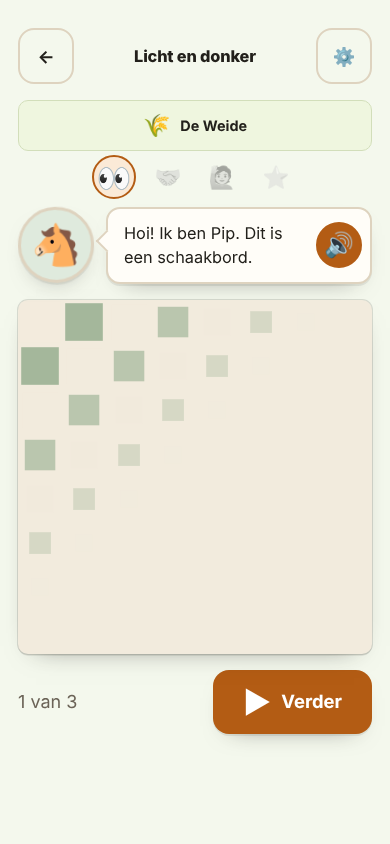
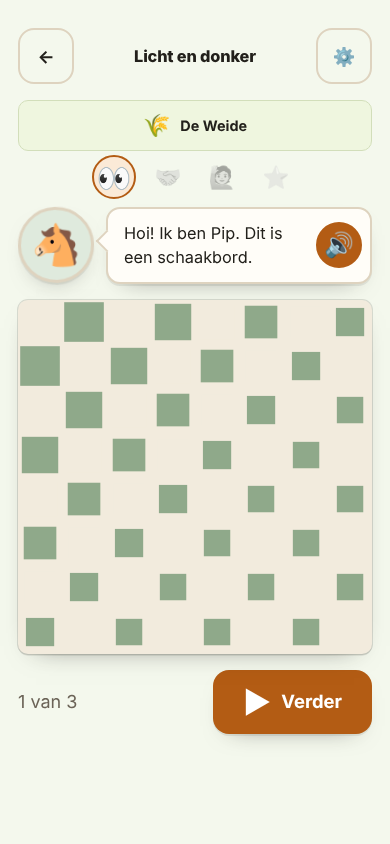
Golf schaalt alleen, vonk na vinkje; doorloop bewaakt beweging aan en uit
Na 29e review: geen half leeg bord meer tijdens de golf, vonk botst niet met
het vinkje, en de doorloop bewijst nu ook dat golf en vonk er mét beweging zijn.

diff --git a/src/board/Board.module.css b/src/board/Board.module.css
@@ -173,9 +173,10 @@
 .goedVeld { animation: veldPop 380ms cubic-bezier(0.3, 1.6, 0.5, 1) 1; z-index: 2; }
 .goedVeld .merkGoed { animation: merkIn 320ms ease-out 1; }
 .vonk {
-  position: absolute; left: 50%; top: 40%; font-size: 1.1em; line-height: 1;
+  /* Vanuit linksonder en pas ná het vinkje, anders schoof hij er dwars doorheen. */
+  position: absolute; left: 30%; top: 55%; font-size: 1.1em; line-height: 1;
   pointer-events: none; z-index: 4; opacity: 0;
-  animation: vonkOp 900ms ease-out 1;
+  animation: vonkOp 800ms ease-out 250ms 1 both;
 }
 @keyframes veldPop { 0% { transform: scale(1); } 45% { transform: scale(1.12); } 100% { transform: scale(1); } }
 @keyframes merkIn { from { transform: scale(0.2); opacity: 0; } to { transform: none; opacity: 1; } }
@@ -186,8 +187,11 @@
 }
 
 /* De kennismaking: de velden rollen in een golf van linksboven naar rechtsonder in. */
-.golf .square { animation: golfIn 420ms ease-out both; animation-delay: calc(var(--golf, 0) * 45ms); }
-@keyframes golfIn { from { transform: scale(0.3); opacity: 0; } to { transform: none; opacity: 1; } }
+/* Alleen schalen, nooit doorzichtig: met opacity 0 leek een half bord even een bord dat
+   nog laadde, en was een aangewezen veld onzichtbaar (29e review). Elk golffront is één
+   diagonaal en dus één kleur. Speelt opnieuw bij terug naar zin 1; dat is bewust. */
+.golf .square { animation: golfIn 360ms ease-out both; animation-delay: calc(var(--golf, 0) * 30ms); }
+@keyframes golfIn { from { transform: scale(0.6); } to { transform: none; } }
 
 @media (prefers-reduced-motion: reduce) {
   .goedVeld, .goedVeld .merkGoed, .golf .square { animation: none; }

diff --git a/src/ui/useMediaQuery.ts b/src/ui/useMediaQuery.ts
@@ -5,6 +5,8 @@ import { useEffect, useState } from 'react'
 /**
  * Of een media query nu klopt. Eerst `false`, zodat de voorgerenderde HTML en de eerste
  * tekening in de browser gelijk zijn; daarna volgt hij het scherm (draaien, venster).
+ * Gevolg, en geaccepteerd: wat ervan afhangt (Pip groot liggend) springt één keer om
+ * na het laden. Pip staat in een eigen kolom, het bord verschuift er niet door.
  */
 export function useMediaQuery(query: string): boolean {
   const [klopt, setKlopt] = useState(false)

diff --git a/src/board/Board.tsx b/src/board/Board.tsx
@@ -51,7 +51,9 @@ type Props = {
   shake?: Square | null
   label?: string
   /** Het bord rolt één keer in een golf binnen. Voor de kennismaking in de eerste les:
-   *  een leeg bord dat er gewoon stond, was het eerste wat een kind zag (27e review). */
+   *  een leeg bord dat er gewoon stond, was het eerste wat een kind zag (27e review).
+   *  Alleen voor borden waar niet op getikt wordt: `.golf .square` wint van de schud-
+   *  en pop-animatie van `.wrong` en `.goedVeld`. */
   golf?: boolean
 }
 

diff --git a/docs/reviews/2026-11-03-negenentwintigste-review.md b/docs/reviews/2026-11-03-negenentwintigste-review.md
@@ -1,0 +1,39 @@
+# Negenentwintigste review: eerste les levendiger (2026-11-03)
+
+Fase: "volgende niveau", ronde 4. Wat er nieuw is: het bord rolt bij de eerste vertelzin binnen in een golf, een goed veld veert op met een vonkje, en Pip is groot op liggende schermen.
+Branch `volgende-niveau`. De reviewers zijn rechtstreeks gestart.
+
+**Oordeel na verwerking: GO voor deze fase.** Niets is blokkerend. `check` en de doorloop zijn groen, de doorloop met 2 regels over beweging aan en uit.
+
+## Schaakmeester
+- Er is niets aan de content of de regels veranderd. De golf loopt langs de diagonalen, en een diagonaal heeft altijd één kleur. De golf laat dus nooit een verkeerde veldkleur zien, en het bord eindigt met rechtsonder licht.
+- **Klein: een aangewezen veld was tijdens de golf onzichtbaar.** *Opgelost:* de golf schaalt nu alleen, zonder doorzichtigheid, dus elk veld is er vanaf het eerste beeld.
+- **Klein: de golf speelt bij elke les, niet alleen bij de kennismaking.** *Niet veranderd, bewust:* het is een korte opening van 0,8 s en het leert niets fout. Komt er ergens bezwaar, dan beperken we hem tot wereld 0.
+
+## Layout
+- **Belangrijk: vonk en vinkje botsten.** *Opgelost:* het vonkje stijgt nu op vanuit linksonder en start 250 ms na het vinkje.
+- **Belangrijk: een half bord voelde even "kapot".** *Opgelost:* de golf begint op schaal 0,6 en is nooit doorzichtig. Hij doet 30 ms per stap, waardoor het bord binnen ongeveer 0,8 s rond is.
+- **Klein: de golf speelt opnieuw bij terug naar zin 1.** *Bewust,* met commentaar in de CSS.
+- **Klein: Pip liggend is nog bescheiden (75 px).** *Niet opgelost:* dat hoort bij "Pip leeft mee" en staat op het scorebord.
+
+## Conversie
+- **Klein: half bord in een screenshot.** *Opgelost,* zie Layout.
+- **Klein: vonk en vinkje vormen een kluitje.** *Opgelost,* zie Layout.
+- De eerste tik wordt niet vertraagd. Er hoeft niets bij in `BEKEND`.
+
+## Codebase
+- **Belangrijk: de vonkcontrole bewees niets.** *Opgelost:* de regel controleert nu dat de vonk in de DOM staat, en draait mét en zonder beweging. Met beweging moeten golf en vonk er zijn, zonder beweging niet.
+- **Klein: Pip verspringt bij het laden door `useMediaQuery`.** *Geaccepteerd,* met commentaar: Pip staat in een eigen kolom, dus het bord verschuift niet.
+- **Klein: de golf wint van `.wrong` en `.goedVeld`.** *Opgelost* in de JSDoc: de golf is alleen voor niet-interactieve borden. Nu gebruikt alleen de vertelfase hem.
+- **Klein: het bord is even onzichtbaar.** *Vervallen:* er is geen opacity meer.
+- **Klein: geen test voor `useMediaQuery`.** *Niet gedaan:* de hook is klein, en de doorloop gebruikt hem al via de liggende formaten.
+
+## Wow: eerste les
+| layout | conversie | vorige ronde (27e) |
+|---|---|---|
+| 7 | 7 | 6,5 / 6 |
+
+Naar een 9:
+- Pip leeft mee: hij springt of knikt bij elke goede tik, en wordt groter in de zijkolom.
+- Pip huppelt het bord op na de golf.
+- Na het laatste goede veld van een opgave volgt een korte afsluiter.

diff --git a/docs/volgende-niveau.md b/docs/volgende-niveau.md
@@ -26,8 +26,8 @@ Schermafbeeldingen: `docs/volgende-niveau/voor-*.png`.
 | Eerste les ≤ 2 tikken, ≤ 15 s | 1 tik, 1,4 s | 🟢 |
 | Tik-reactie < 100 ms | nog niet gemeten | ⚪ |
 | Beloningsmoment per wereld | ronde 3: eigen held-kaart (wapen 128 px, confetti, wapenrij), diploma-voorproef | 🟢 (wow nog te meten) |
-| `prefers-reduced-motion` | in 10 stijlbestanden; niet overal nagelopen | ⚪ |
-| Wow-toets ≥ 9 (4 schermen, 2 reviewers) | ronde 3: wereld af 5/7, diploma 7,5/8 (vóór verbouwing). ronde 2: start 6/7, les 6,5/6, diploma 3/–, kaart 5/6,5 (zie 27e review) | 🔴 |
+| `prefers-reduced-motion` | nieuwe animaties (golf, vonk, wapen) bewaakt in doorloop, aan én uit; oudere nog niet allemaal nagelopen | 🟡 |
+| Wow-toets ≥ 9 (4 schermen, 2 reviewers) | ronde 4: eerste les 7/7. ronde 3: wereld af 5/7, diploma 7,5/8 (vóór verbouwing). ronde 2: start 6/7, les 6,5/6, diploma 3/–, kaart 5/6,5 (zie 27e review) | 🔴 |
 | OG-afbeelding per pagina | één algemene `og.png` voor alle pagina's | 🔴 |
 | Deelknop op trotse momenten | ronde 3: op wereld af en diploma, alleen link + vaste zin, anonieme telling `Gedeeld`; doorloop bewaakt share én kopieer zonder naam | 🟢 |
 | Installeerbaar | manifest + service worker aanwezig | 🟢 |
@@ -45,6 +45,7 @@ Gedaan: bord liggend (r2), trots moment + delen (r3), eerste les levendiger (r4)
 4. **Wereld 0–2 offline voorladen.**
 5. **OG per pagina.**
 6. Tik-reactie < 100 ms meten in de doorloop.
+7. Pip leeft mee in de les (springt bij goed veld, groter in zijkolom, huppelt het bord op) — 29e review.
 
 ## Logboek
 - Ronde 1: nulmeting. Niets aan de app veranderd.
